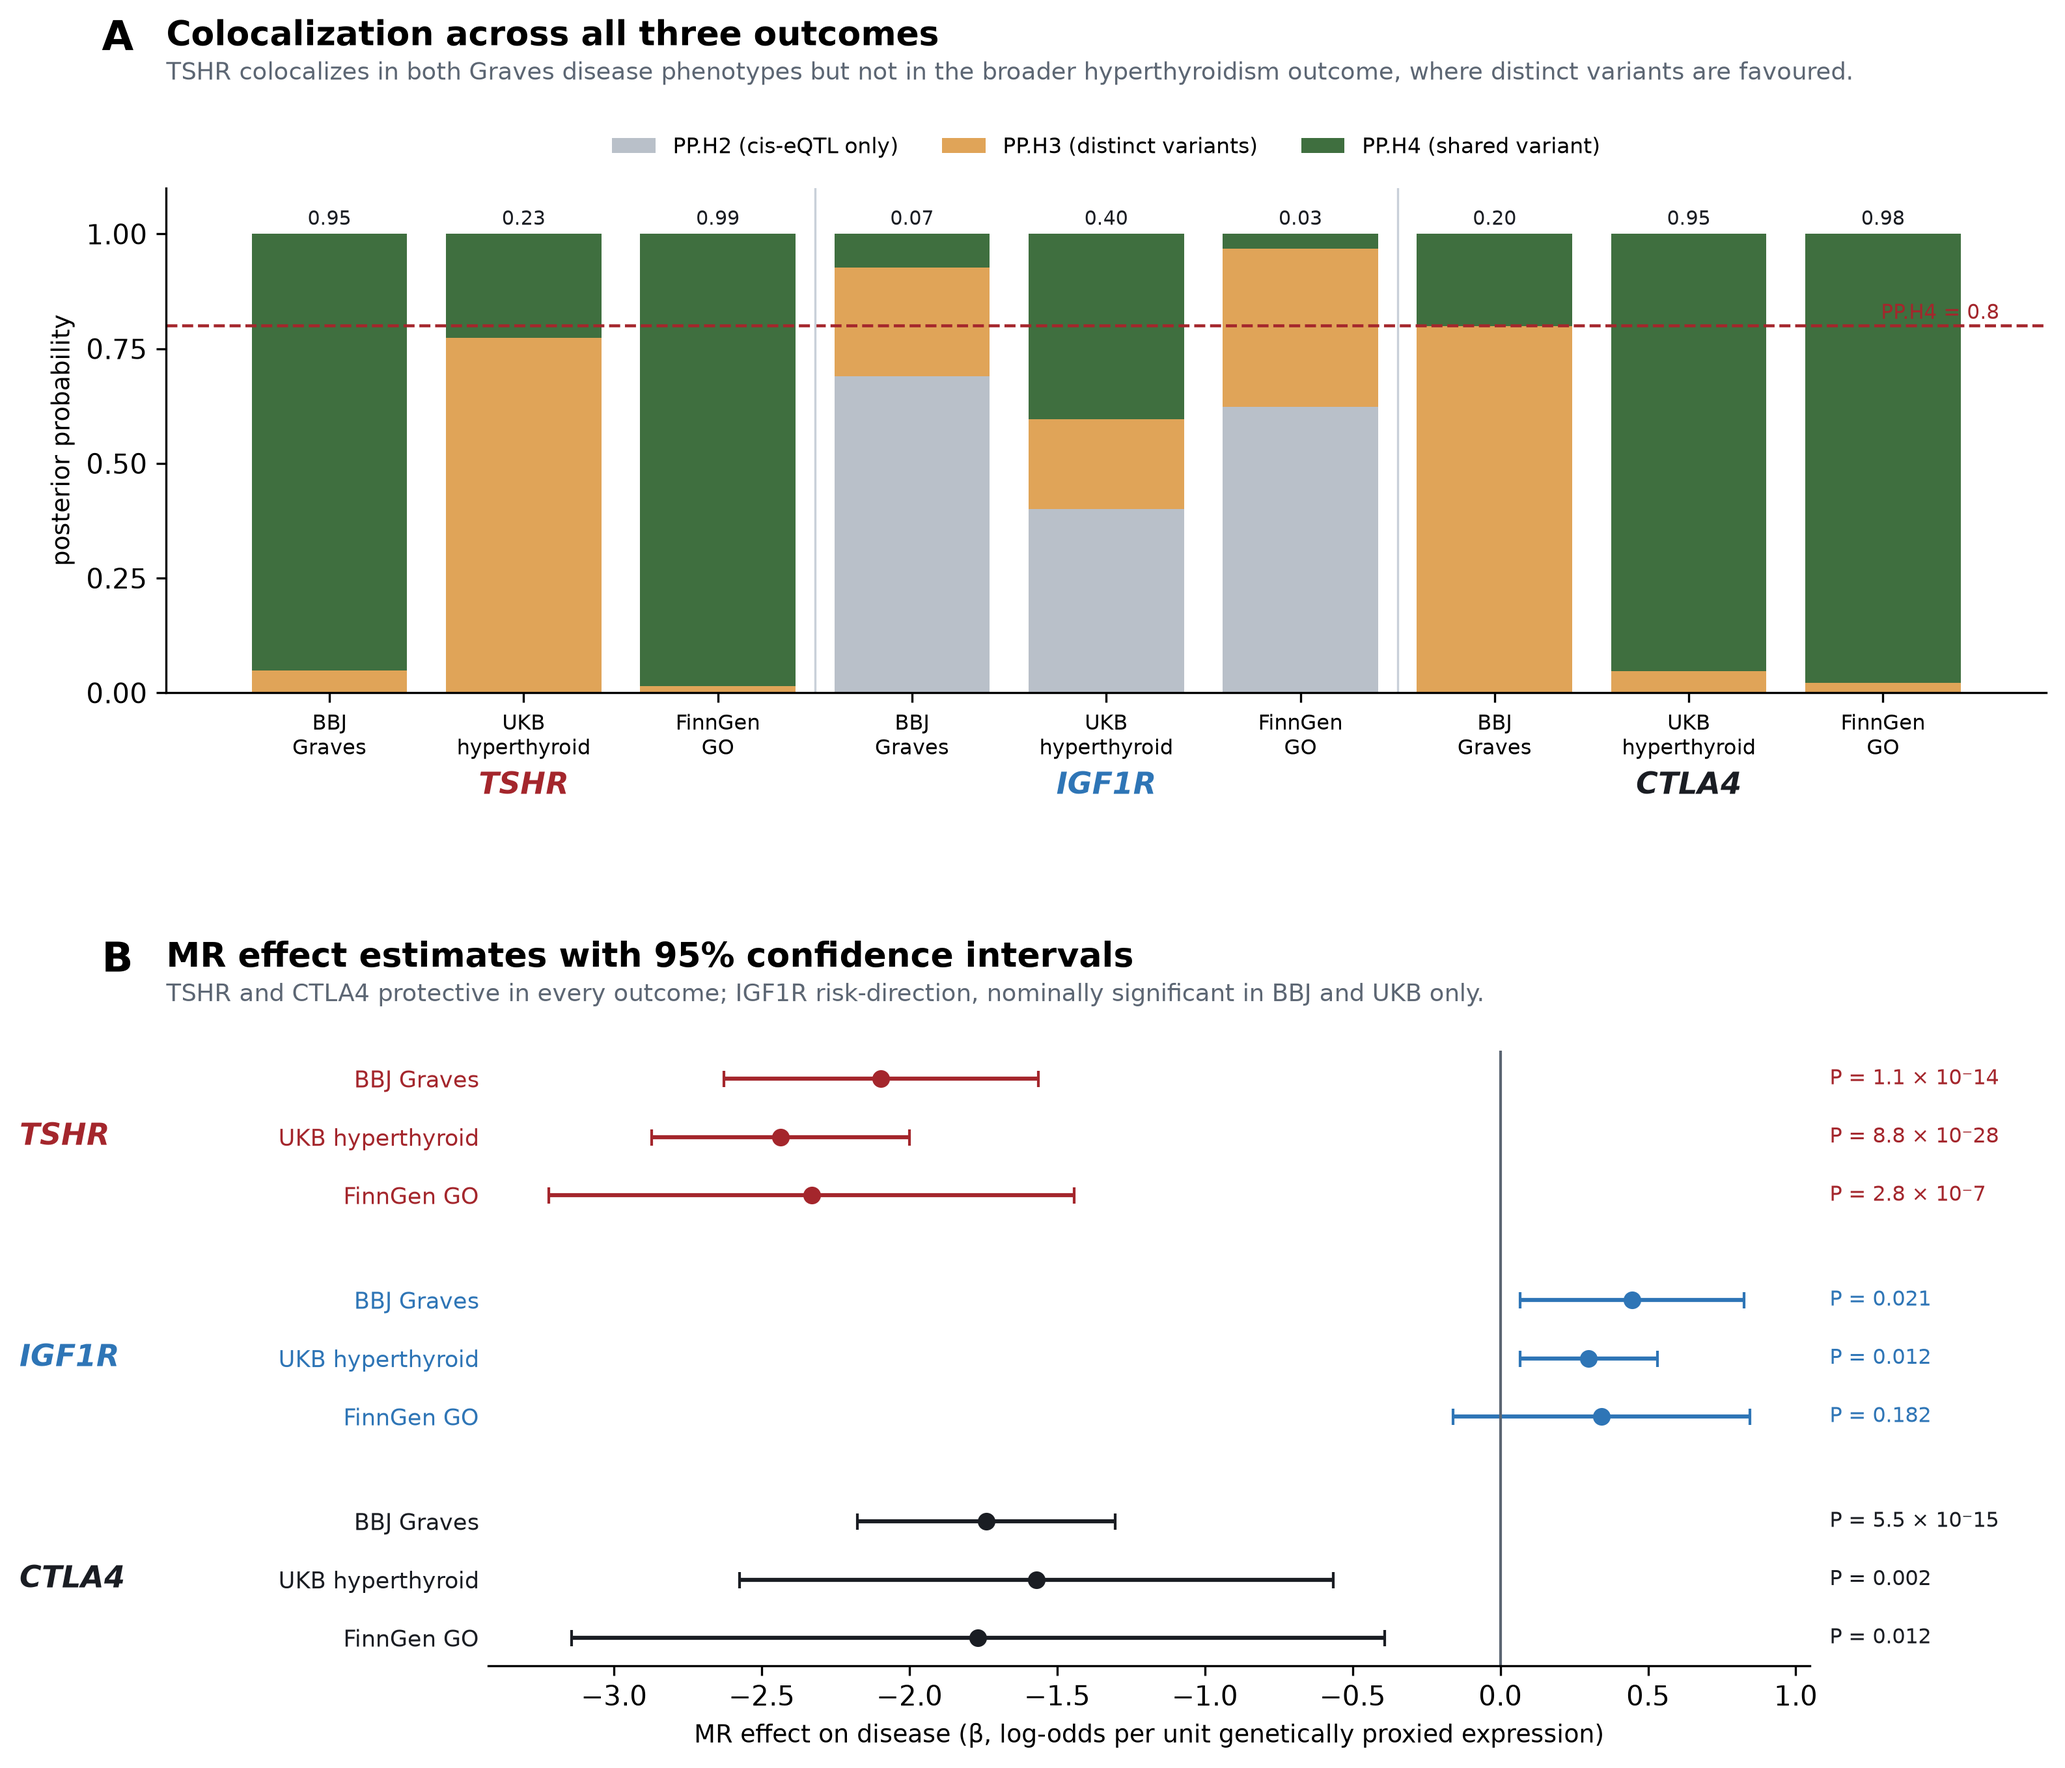
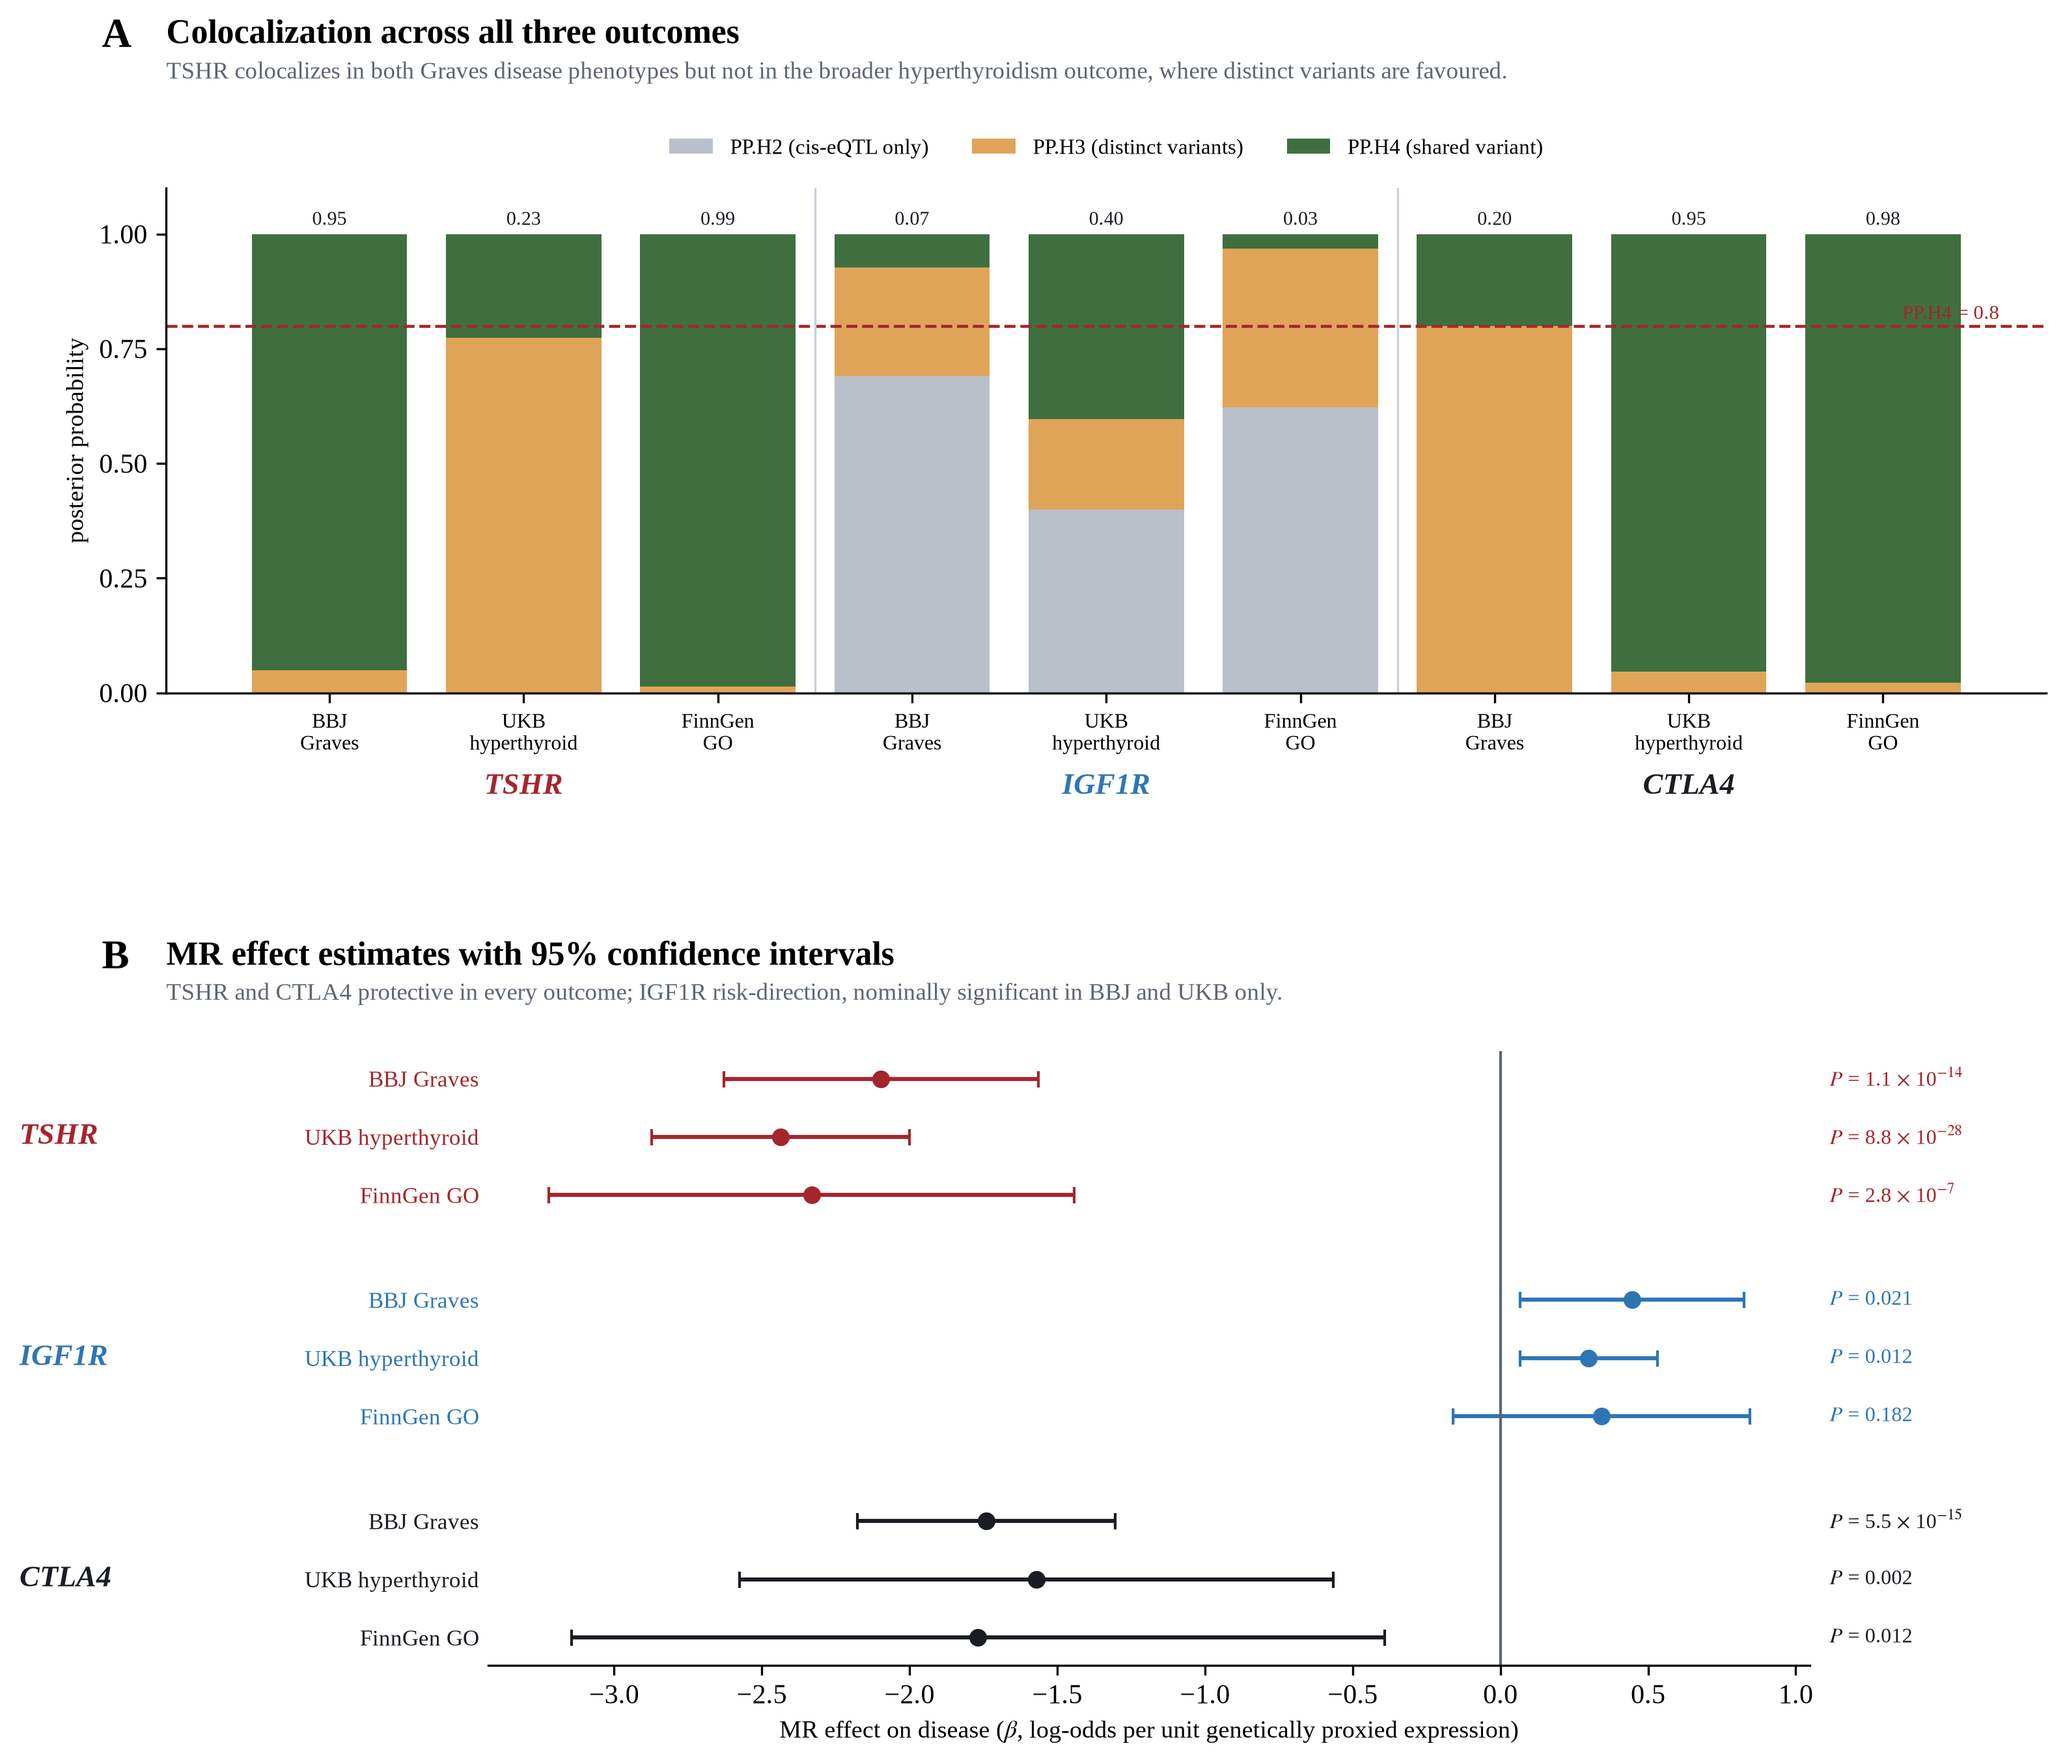
Set all figures in a Times-compatible serif and centre the box text
Three changes across every figure the repository generates (Figures 1, 3, S1,
S2; Figure 2 has no builder here and is unchanged).

Font. Family list is now ["Times New Roman", "Liberation Serif", "Nimbus Roman",
"FreeSerif", "DejaVu Serif"], so the figures render in real Times New Roman on a
machine that has it and in Liberation Serif here, which is metrically identical.
Nothing in this container ships Times New Roman itself, so the rendered PNGs use
the substitute.

Liberation Serif has no superscript-minus glyph, which the exponents needed, so
every exponent and Greek symbol moved to mathtext with the STIX set: 10$^{-5}$,
10$^{-14}$, $\beta$, and italic $P$. That also gives the italic P and beta that
journals expect, which the Unicode version could not.

Box text in Figure 1 is now genuinely centred: each box lays its label lines and
its count out as one block around the box centre, instead of the two hand-tuned
offsets that left the content sitting high. The counts are no longer bold — they
read as part of the same line of text rather than as display type.

Figure 1 remains 0% chromatic: verified pixel-wise, 0 of 6,072,790 pixels have
any saturation. The green box and red strip that were reported are from the
version before the CONSORT redraw; the colour that remains in the package is in
Figure 3, where the stacked posterior bars carry it.

Claude-Session: https://claude.ai/code/session_01TiAKffYKtUstdRZFkwtJA9

diff --git a/scripts/25_rebuild_figure1_claim.py b/scripts/25_rebuild_figure1_claim.py
@@ -28,7 +28,13 @@ OUT = [f"{ROOT}/TrackA_MR/v5_upgrade/07_manuscript/figures/Figure1_study_design.
        f"{ROOT}/submission/figures/Figure1.png"]
 
 INK, RULE = "#000000", "#555555"
-plt.rcParams.update({"font.family": "DejaVu Sans", "font.size": 8.5})
+plt.rcParams.update({
+    "font.family": "serif",
+    "font.serif": ["Times New Roman", "Liberation Serif", "Nimbus Roman",
+                   "FreeSerif", "DejaVu Serif"],
+    "mathtext.fontset": "stix",
+})
+plt.rcParams["font.size"] = 8.5
 
 
 def master_counts():
@@ -90,18 +96,20 @@ def build():
         (0.720, 0.130, "MR-testable\n\u22651 valid cis-eQTL instrument (6,135 total)",
          "n = 2,544 genes"),
         (0.515, 0.110, "Estimable against discovery outcome", "n = 2,234 genes"),
-        (0.305, 0.130, "Bonferroni-significant in discovery\nP < 1.965 \u00d7 10\u207b\u2075",
+        (0.305, 0.130, "Bonferroni-significant in discovery\n$P$ < 1.965 $\\times$ 10$^{-5}$",
          "n = 13 genes"),
         (0.085, 0.110, "Met the colocalization criterion", "n = 0 novel candidates"),
     ]
+    LH = 0.0295                      # line height in axis units
     for k, (cy, h, lab, num) in enumerate(main):
         last = (k == len(main) - 1)
         box(ax, MX, cy, MW, h, lw=1.6 if last else 1.1)
-        nlines = lab.count("\n") + 1
-        ax.text(MX, cy + (0.020 if nlines == 1 else 0.032), lab, ha="center", va="center",
-                fontsize=LAB, linespacing=1.35, color=INK)
-        ax.text(MX, cy - (0.026 if nlines == 1 else 0.036), num, ha="center", va="center",
-                fontsize=NUM, fontweight="bold", color=INK)
+        lines_ = lab.split("\n") + [num]
+        top = cy + (len(lines_) - 1) / 2 * LH
+        for li, txt in enumerate(lines_):
+            is_num = (li == len(lines_) - 1)
+            ax.text(MX, top - li * LH, txt, ha="center", va="center",
+                    fontsize=NUM if is_num else LAB, color=INK)
         if not last:
             ny, nh = main[k + 1][0], main[k + 1][1]
             ax.annotate("", xy=(MX, ny + nh / 2), xytext=(MX, cy - h / 2),
@@ -116,9 +124,8 @@ def build():
                     arrowprops=dict(arrowstyle="-|>", color=INK, lw=1.1,
                                     mutation_scale=14))
         box(ax, EX, cy, EW, 0.085)
-        ax.text(EX, cy + 0.018, lab, ha="center", va="center", fontsize=9.6, color=INK)
-        ax.text(EX, cy - 0.022, num, ha="center", va="center", fontsize=10.8,
-                fontweight="bold", color=INK)
+        ax.text(EX, cy + 0.0135, lab, ha="center", va="center", fontsize=9.6, color=INK)
+        ax.text(EX, cy - 0.0135, num, ha="center", va="center", fontsize=10.6, color=INK)
 
     # resolution of the 13, branching sideways from that box
     cy = 0.245
@@ -134,8 +141,7 @@ def build():
             (n["known"], "established loci")]
     yy = cy + 0.040
     for k, lab in rows:
-        ax.text(EX - EW / 2 + 0.030, yy, str(k), fontsize=9.8, va="center",
-                fontweight="bold", color=INK)
+        ax.text(EX - EW / 2 + 0.030, yy, str(k), fontsize=9.8, va="center", color=INK)
         ax.text(EX - EW / 2 + 0.062, yy, lab, fontsize=9.4, va="center", color=INK)
         yy -= 0.031
 
@@ -156,8 +162,8 @@ def build():
     axb.plot([x0, xR], [0.665, 0.665], color=INK, lw=1.0)
 
     body = [
-        ("Discovery MR", f"\u03b2 = {T['beta']:+.2f}\nP = 1.1 \u00d7 10\u207b\u00b9\u2074",
-         f"\u03b2 = {I['beta']:+.2f}\nP = {I['p']:.3f}"),
+        ("Discovery MR", f"$\\beta$ = {T['beta']:+.2f}\n$P$ = 1.1 $\\times$ 10$^{{-14}}$",
+         f"$\\beta$ = {I['beta']:+.2f}\n$P$ = {I['p']:.3f}"),
         ("Colocalization PP.H4\ndiscovery / replication /\nTED-enriched",
          " / ".join(f"{v:.2f}" for v in T["h4"]),
          " / ".join(f"{v:.2f}" for v in I["h4"])),

diff --git a/scripts/28_rebuild_figures_v2.py b/scripts/28_rebuild_figures_v2.py
@@ -40,7 +40,13 @@ SUBDIR = f"{ROOT}/submission/figures"
 INK, MUTED, RULE = "#1a1d23", "#5c6673", "#c9d0d9"
 ANCHOR, EFFECTOR = "#a4262c", "#2e75b6"
 H2C, H3C, H4C = "#b9c0c9", "#e0a458", "#3f6f3f"
-plt.rcParams.update({"font.family": "DejaVu Sans", "font.size": 10})
+plt.rcParams.update({
+    "font.family": "serif",
+    "font.serif": ["Times New Roman", "Liberation Serif", "Nimbus Roman",
+                   "FreeSerif", "DejaVu Serif"],
+    "mathtext.fontset": "stix",
+})
+plt.rcParams["font.size"] = 10
 
 BACKBONE = ["TSHR", "IGF1R", "CTLA4"]
 CANDIDATES = ["TNFSF14", "IFNGR1", "MAPKAPK5", "HSD3B7", "VKORC1", "PRSS36"]
@@ -167,8 +173,11 @@ def figure3(co, mr):
             axB.errorbar(b, y, xerr=1.96 * se, fmt="o", ms=5.5, color=c,
                          ecolor=c, elinewidth=1.5, capsize=3)
             pv = float(r["pvalue"])
-            ptxt = (f"P = {pv:.3f}" if pv >= 1e-3
-                    else f"P = {pv:.1e}".replace("e-0", " \u00d7 10\u207b").replace("e-", " \u00d7 10\u207b"))
+            if pv >= 1e-3:
+                ptxt = f"$P$ = {pv:.3f}"
+            else:
+                mant, exp = f"{pv:.1e}".split("e")
+                ptxt = f"$P$ = {mant} $\\times$ 10$^{{{int(exp)}}}$"
             axB.text(1.015, y, ptxt, transform=axB.get_yaxis_transform(),
                      va="center", ha="left", fontsize=7.8, color=c)
             lab.append(l.replace("\n", " "))
@@ -185,7 +194,7 @@ def figure3(co, mr):
     axB.set_yticklabels(lab, fontsize=8.4)
     for t, c in zip(axB.get_yticklabels(), col):
         t.set_color(c)
-    axB.set_xlabel("MR effect on disease (β, log-odds per unit genetically proxied expression)",
+    axB.set_xlabel("MR effect on disease ($\\beta$, log-odds per unit genetically proxied expression)",
                    fontsize=9.2)
     for sp in ("top", "right", "left"):
         axB.spines[sp].set_visible(False)
